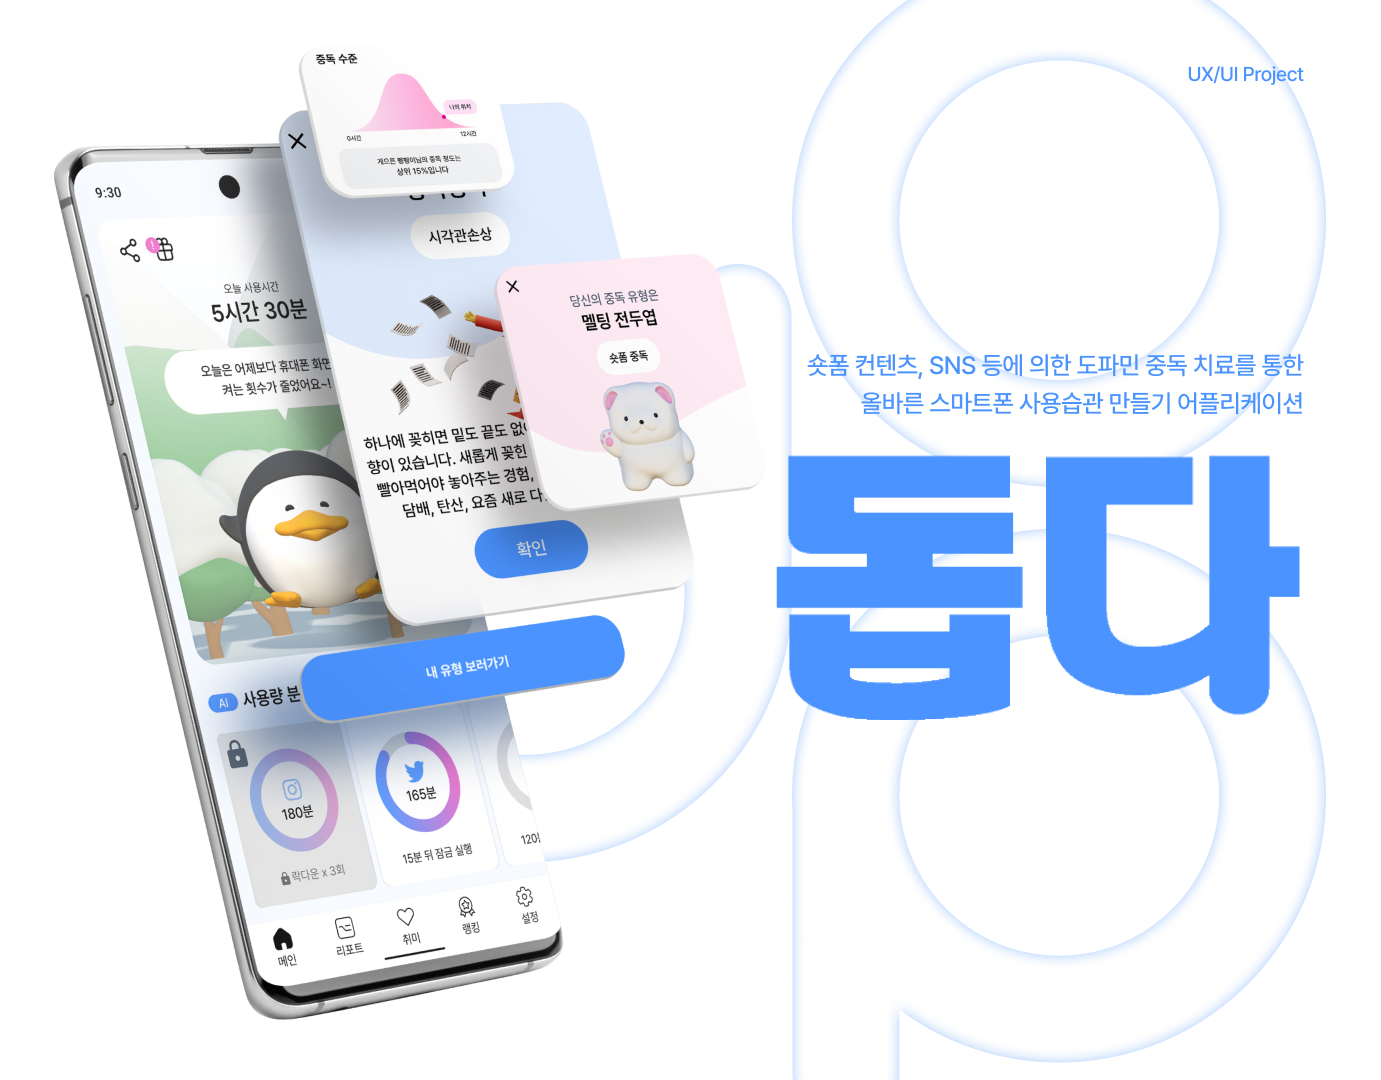
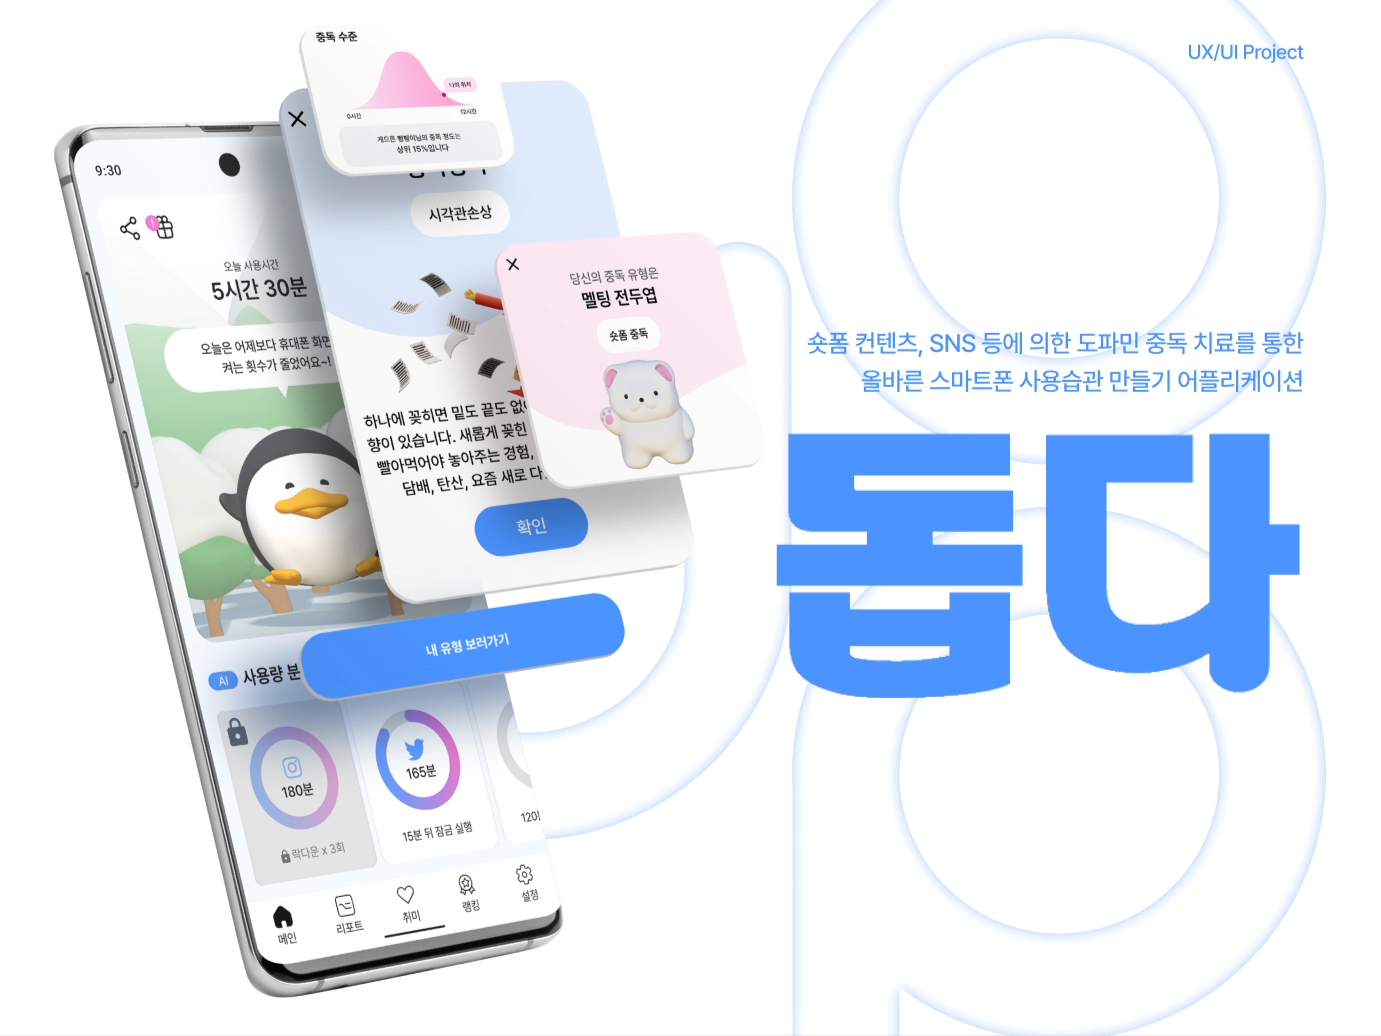
modify

diff --git a/second-week.html b/second-week.html
@@ -75,7 +75,7 @@
 									아이디어 리서치
 								</p>
 							</header>
-							<a href="#" class="image featured"><img src="images/idea.jpg" alt="" /></a>
+							<a href="#" class="image featured"><img src="images/idea-min.jpg" alt="" /></a>
 							<p>
 								
 							</p>
